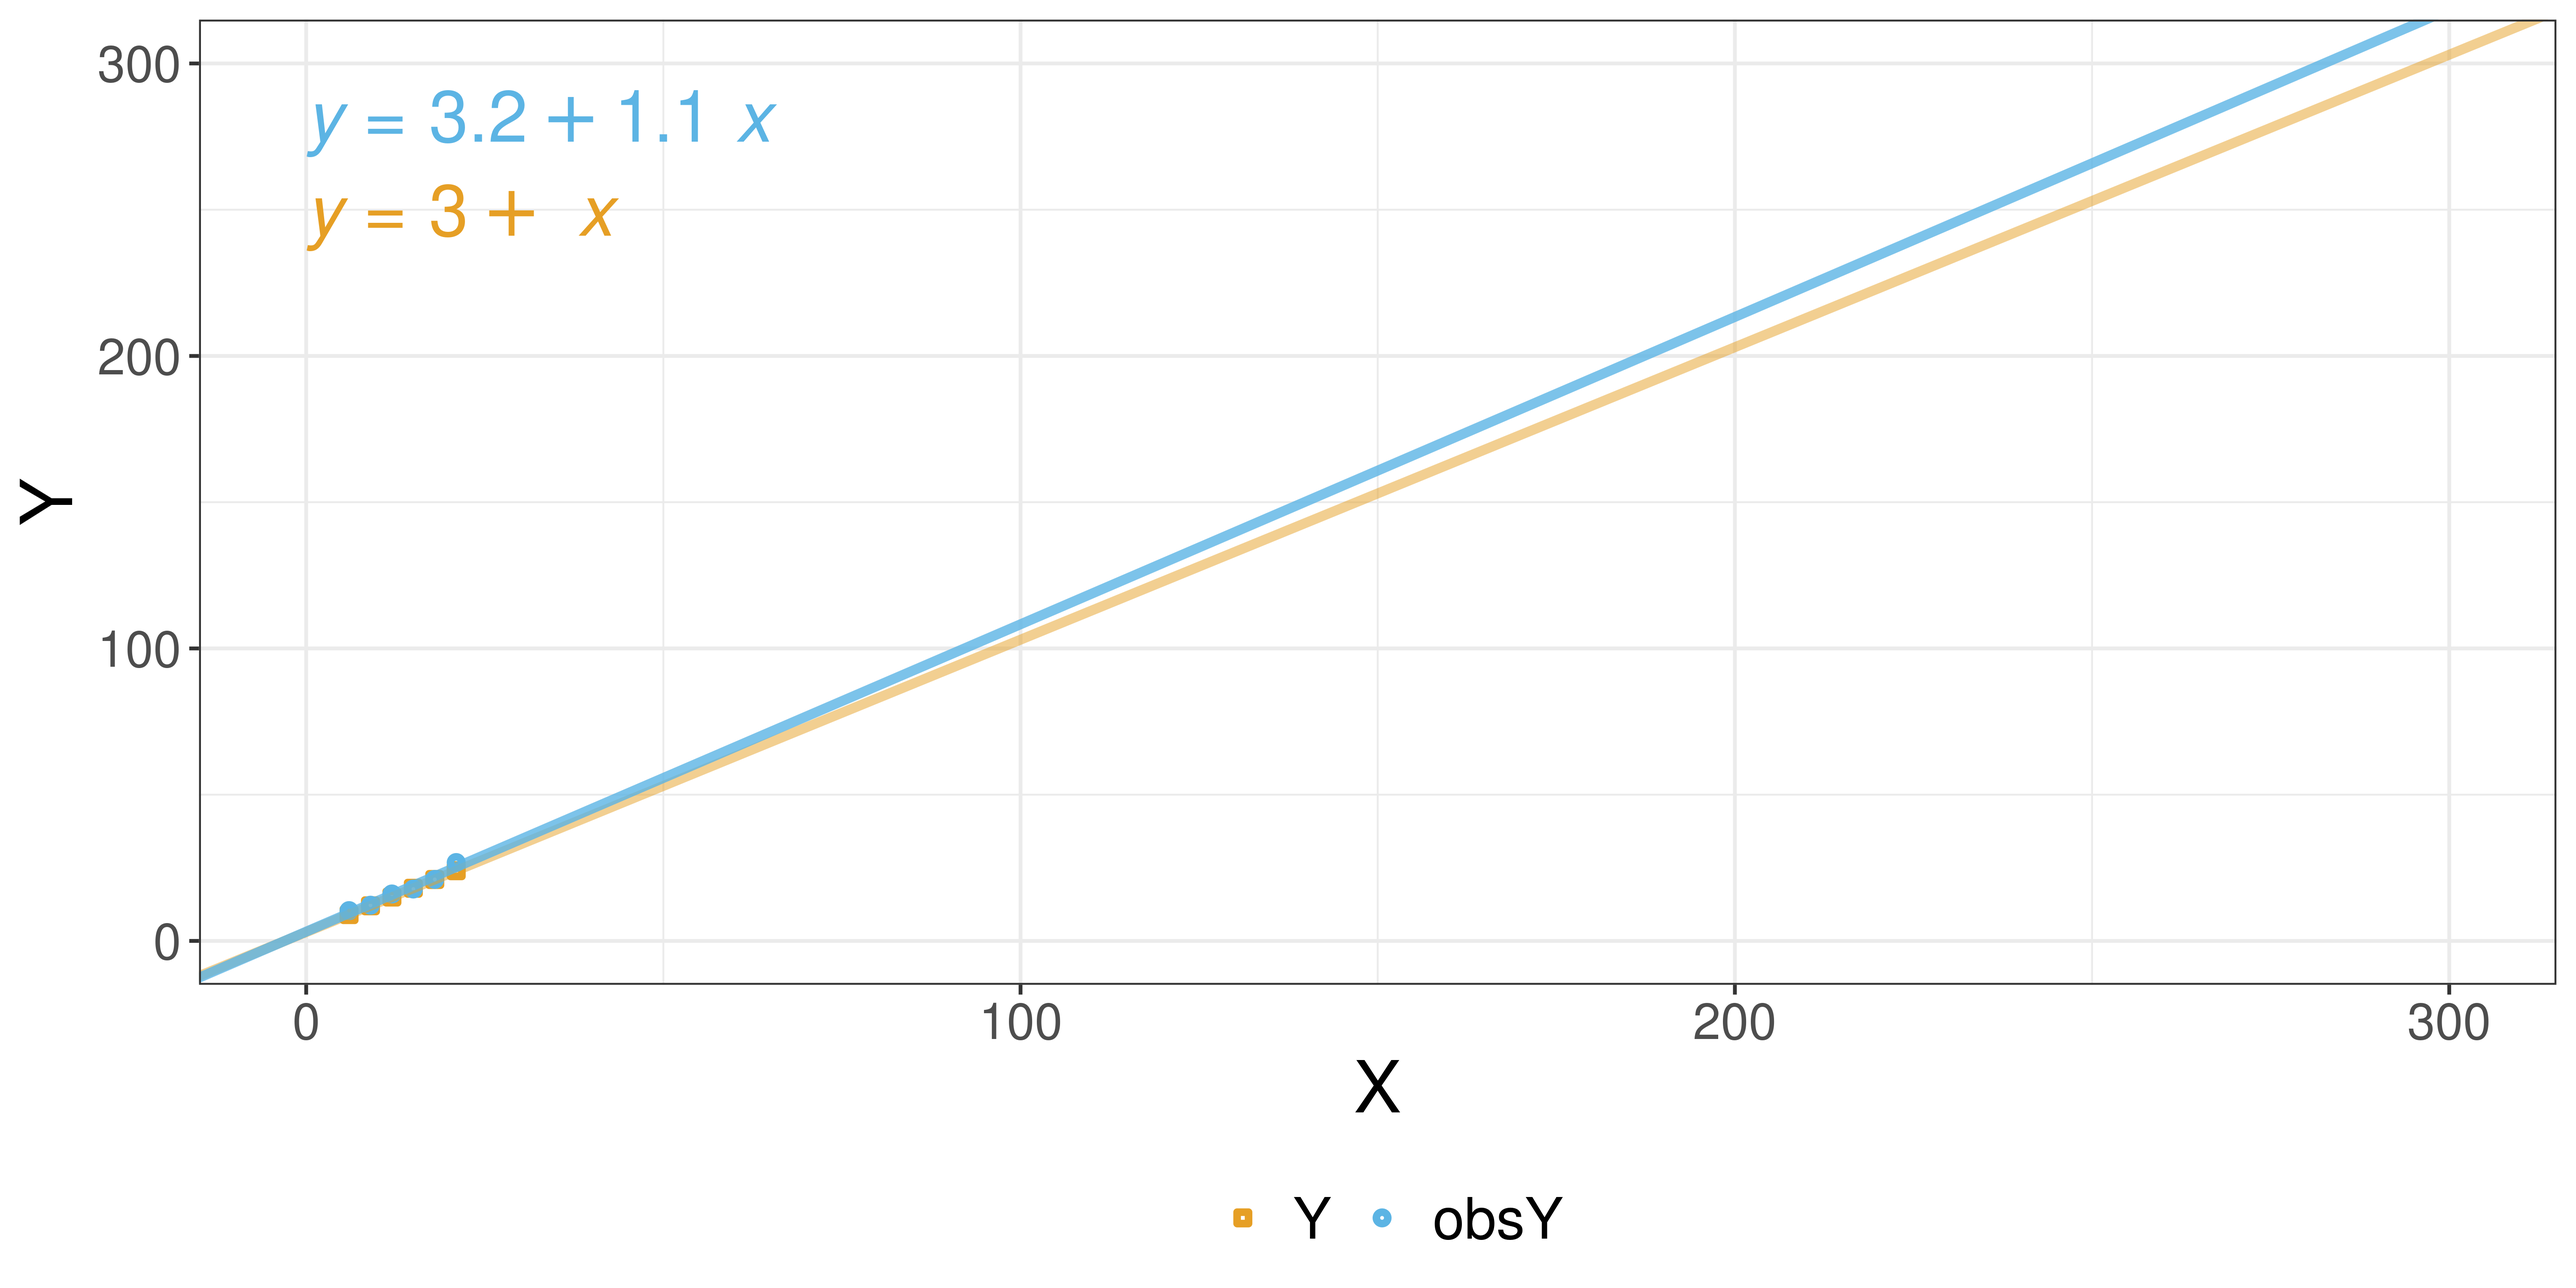
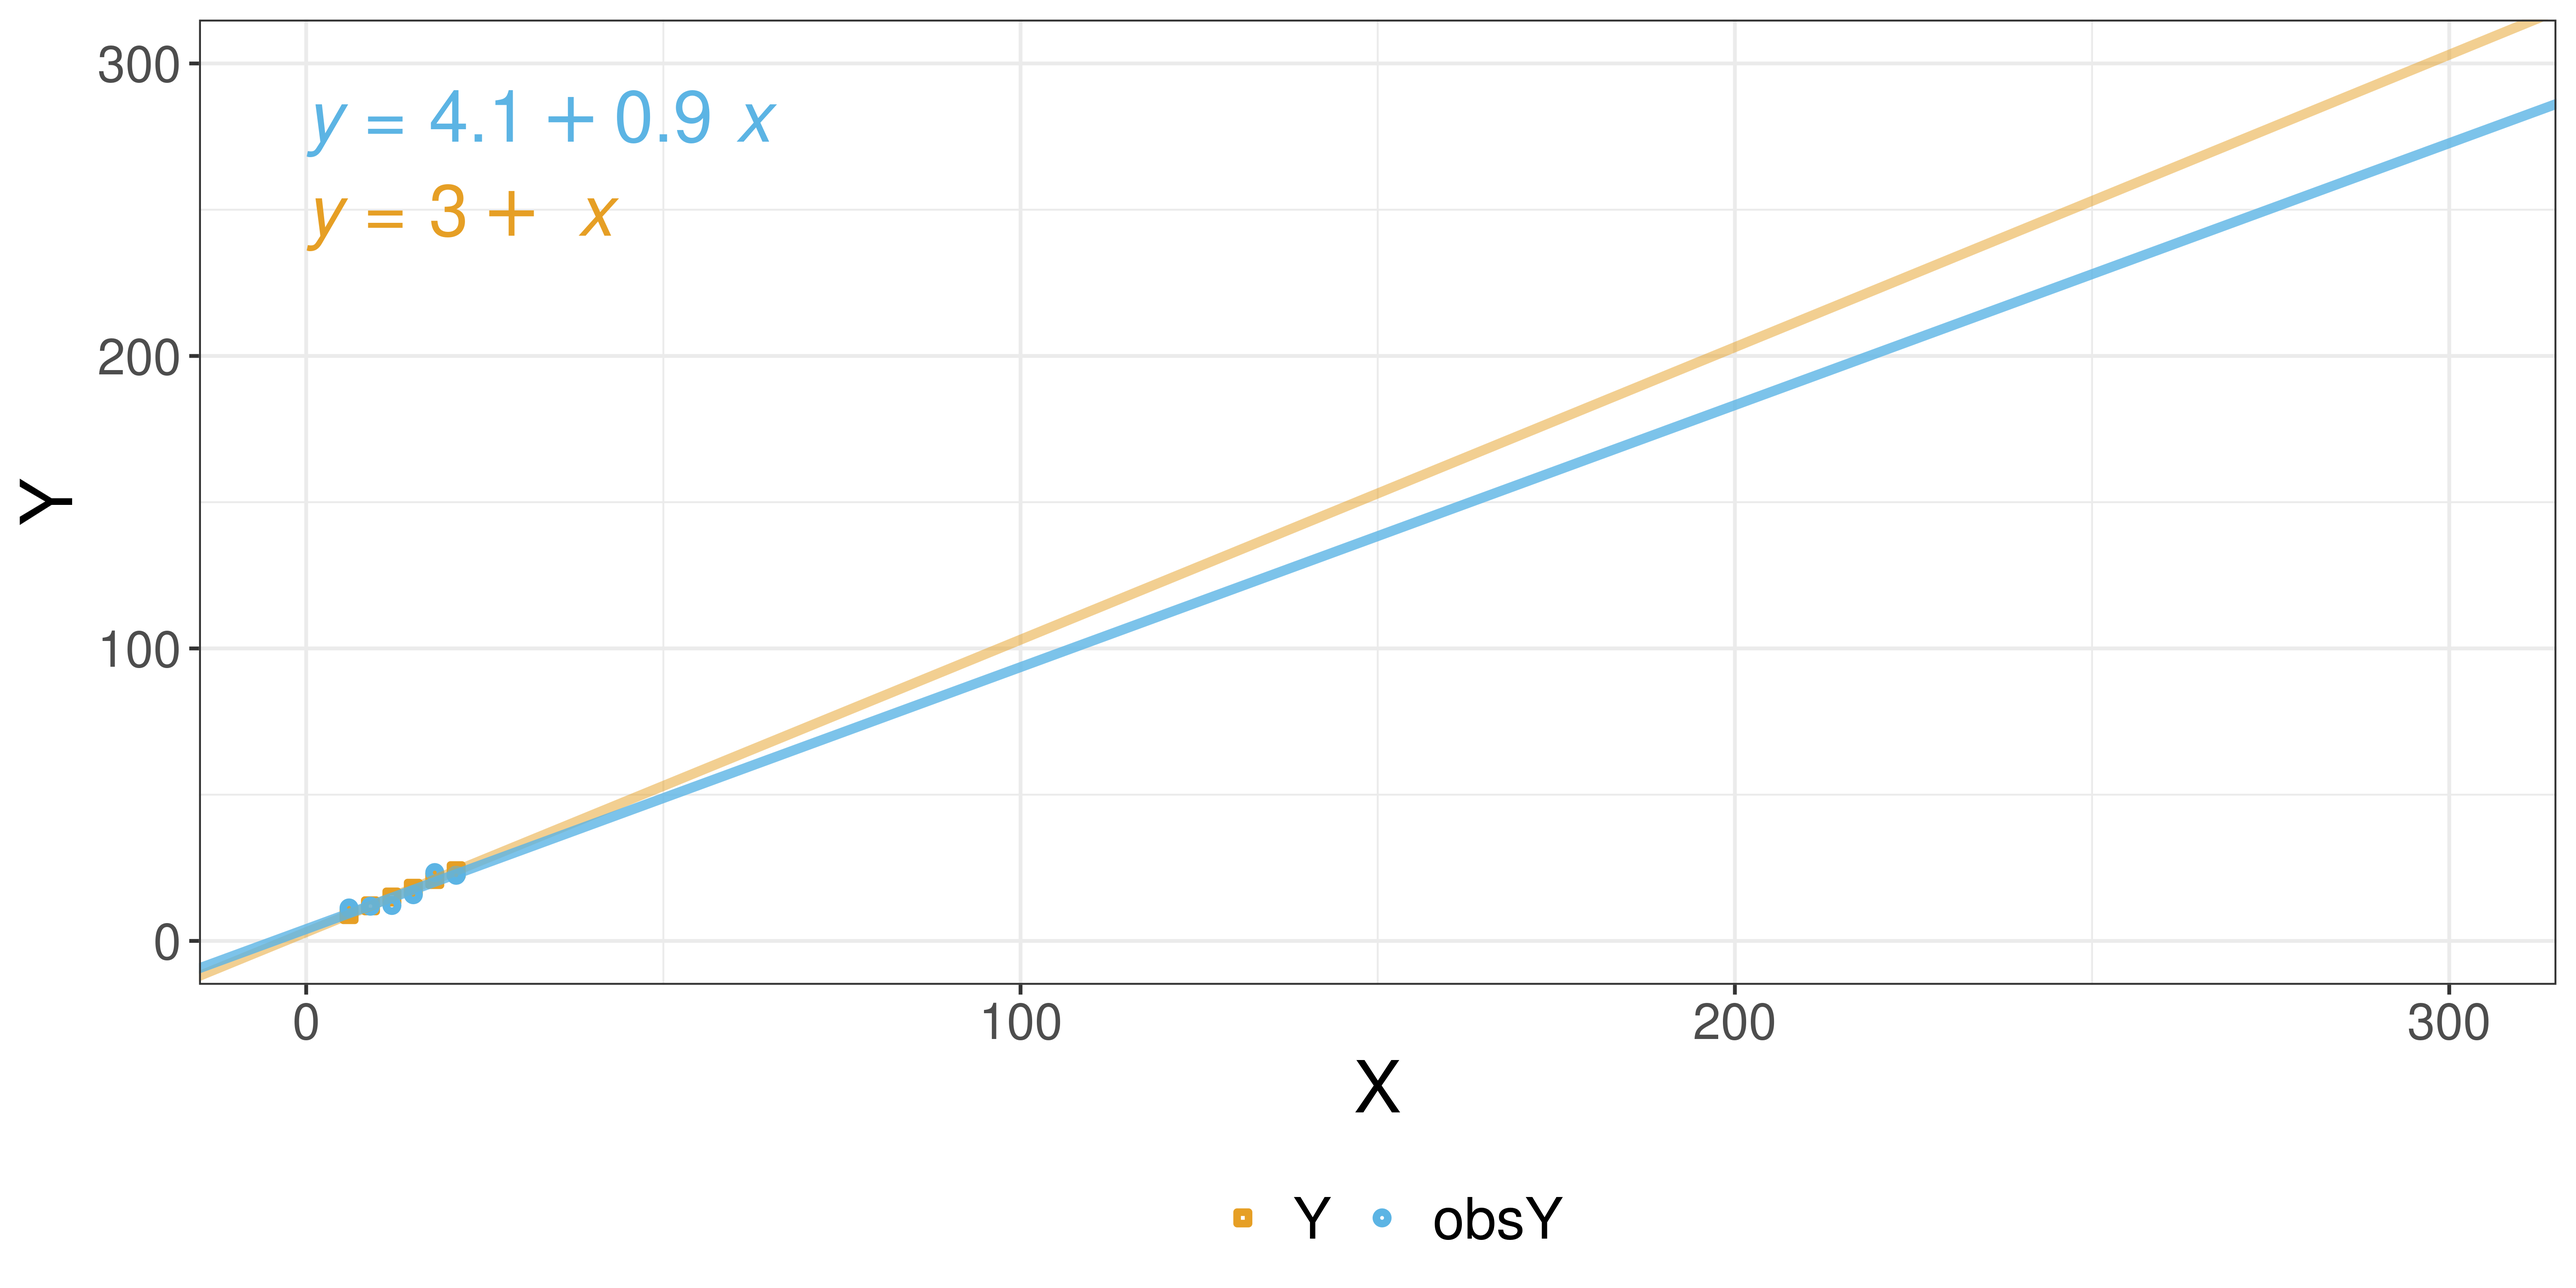
Built site for gh-pages

diff --git a/blog/main.html b/blog/main.html
@@ -381,7 +381,7 @@ ul.task-list li input[type="checkbox"] {
     </div>
 </div>
 <div class="list grid quarto-listing-cols-3">
-<div class="g-col-1" data-index="0" data-categories="week03,linear regression,outliers" data-listing-date-sort="1666483200000" data-listing-file-modified-sort="1666961681642" data-listing-reading-time-sort="2.48">
+<div class="g-col-1" data-index="0" data-categories="week03,linear regression,outliers" data-listing-date-sort="1666483200000" data-listing-file-modified-sort="1667039423214" data-listing-reading-time-sort="2.48">
 <a href="../blog/posts/outliers.html" class="quarto-grid-link">
 <div class="quarto-grid-item card h-100 card-left">
 <div class="card-body post-contents">
@@ -414,7 +414,7 @@ Here you will find R code to single out points with high “studentized” resid
 </div>
 </a>
 </div>
-<div class="g-col-1" data-index="1" data-categories="week04,p-values" data-listing-date-sort="1666137600000" data-listing-file-modified-sort="1666961681642" data-listing-reading-time-sort="1.345">
+<div class="g-col-1" data-index="1" data-categories="week04,p-values" data-listing-date-sort="1666137600000" data-listing-file-modified-sort="1667039423214" data-listing-reading-time-sort="1.345">
 <a href="../blog/posts/p-values.html" class="quarto-grid-link">
 <div class="quarto-grid-item card h-100 card-left">
 <div class="card-body post-contents">
@@ -444,7 +444,7 @@ There are dangers in relying too much on p-values.
 </div>
 </a>
 </div>
-<div class="g-col-1" data-index="2" data-categories="week03,bayesian statistics,equations" data-listing-date-sort="1665964800000" data-listing-file-modified-sort="1666961681642" data-listing-reading-time-sort="0.395">
+<div class="g-col-1" data-index="2" data-categories="week03,bayesian statistics,equations" data-listing-date-sort="1665964800000" data-listing-file-modified-sort="1667039423214" data-listing-reading-time-sort="0.395">
 <a href="../blog/posts/bayes-theorem.html" class="quarto-grid-link">
 <div class="quarto-grid-item card h-100 card-left">
 <div class="card-body post-contents">
@@ -477,7 +477,7 @@ This video will help you grasp the intuition behind Bayes’ Theorem.
 </div>
 </a>
 </div>
-<div class="g-col-1" data-index="3" data-categories="week02,R-squared,equations" data-listing-date-sort="1665360000000" data-listing-file-modified-sort="1666961681642" data-listing-reading-time-sort="3.715">
+<div class="g-col-1" data-index="3" data-categories="week02,R-squared,equations" data-listing-date-sort="1665360000000" data-listing-file-modified-sort="1667039423214" data-listing-reading-time-sort="3.715">
 <a href="../blog/posts/r-squared.html" class="quarto-grid-link">
 <div class="quarto-grid-item card h-100 card-left">
 <div class="card-body post-contents">

diff --git a/slides/week01_slides_part2.html b/slides/week01_slides_part2.html
@@ -1086,12 +1086,12 @@ communicate-&gt;end
 <pre><code># A tibble: 6 × 3
       X     Y  obsY
   &lt;int&gt; &lt;int&gt; &lt;dbl&gt;
-1     6     9  10.4
-2     9    12  12.2
-3    12    15  16.1
-4    15    18  17.7
-5    18    21  21.0
-6    21    24  26.8</code></pre>
+1     6     9  11.3
+2     9    12  11.9
+3    12    15  12.1
+4    15    18  15.8
+5    18    21  23.4
+6    21    24  22.4</code></pre>
 </div>
 </div>
 </section>
@@ -1144,14 +1144,14 @@ communicate-&gt;end
 <div class="cell fragment">
 <div class="cell-output cell-output-stdout">
 <pre><code># A tibble: 6 × 5
-      X     Y  obsY   error absError
-  &lt;int&gt; &lt;int&gt; &lt;dbl&gt;   &lt;dbl&gt;    &lt;dbl&gt;
-1     6     9  10.4 -1.36     1.36  
-2     9    12  12.2 -0.206    0.206 
-3    12    15  16.1 -1.05     1.05  
-4    15    18  17.7  0.253    0.253 
-5    18    21  21.0 -0.0282   0.0282
-6    21    24  26.8 -2.80     2.80  </code></pre>
+      X     Y  obsY  error absError
+  &lt;int&gt; &lt;int&gt; &lt;dbl&gt;  &lt;dbl&gt;    &lt;dbl&gt;
+1     6     9  11.3 -2.27     2.27 
+2     9    12  11.9  0.135    0.135
+3    12    15  12.1  2.88     2.88 
+4    15    18  15.8  2.20     2.20 
+5    18    21  23.4 -2.37     2.37 
+6    21    24  22.4  1.56     1.56 </code></pre>
 </div>
 </div>
 <div class="fragment">
@@ -1159,7 +1159,7 @@ communicate-&gt;end
 <div class="cell" data-output-location="fragment">
 <div class="sourceCode cell-code" id="cb7"><pre class="sourceCode numberSource r code-overflow-wrap number-lines code-with-copy"><code class="sourceCode r"><span id="cb7-1"><a href="#cb7-1"></a><span class="fu">mean</span>(df<span class="sc">$</span>absError)</span></code><button title="Copy to Clipboard" class="code-copy-button"><i class="bi"></i></button></pre></div>
 <div class="cell-output cell-output-stdout">
-<pre><code>[1] 0.949206</code></pre>
+<pre><code>[1] 1.904503</code></pre>
 </div>
 </div>
 </div>

diff --git a/assessments/summative1.html b/assessments/summative1.html
@@ -7,7 +7,7 @@
 <meta name="viewport" content="width=device-width, initial-scale=1.0, user-scalable=yes">
 
 <meta name="author" content="Dr.&nbsp;Jon Cardoso-Silva">
-<meta name="dcterms.date" content="2022-10-28">
+<meta name="dcterms.date" content="2022-10-29">
 
 <title>LSE DS202 2022/23 - Summative Problem Set 01 | W05-W07</title>
 <style>
@@ -436,7 +436,7 @@ code span.wa { color: #60a0b0; font-weight: bold; font-style: italic; } /* Warni
     <div>
     <div class="quarto-title-meta-heading">Published</div>
     <div class="quarto-title-meta-contents">
-      <p class="date">28 October 2022</p>
+      <p class="date">29 October 2022</p>
     </div>
   </div>
     
@@ -450,7 +450,7 @@ code span.wa { color: #60a0b0; font-weight: bold; font-style: italic; } /* Warni
 <ol type="1">
 <li><strong>Deadline</strong>: you have until <strong>9 November 2022, 23:59 UK time</strong> (Week 07) to complete your solutions and submit <a href="https://moodle.lse.ac.uk/mod/coursework/view.php?id=1131232&amp;forceview=1">via Moodle</a>.</li>
 <li>You will be granted a maximum of 100 points for the whole assignment. You will see how much each task is right next to the tasks’ names.</li>
-<li>This assessment is worth <strong>30%</strong> of your final grade.</li>
+<li>This assessment is worth <strong>20%</strong> of your final grade.</li>
 <li>Read the instructions carefully and make sure you follow them.</li>
 </ol>
 <div class="callout-important callout callout-style-default callout-captioned">
